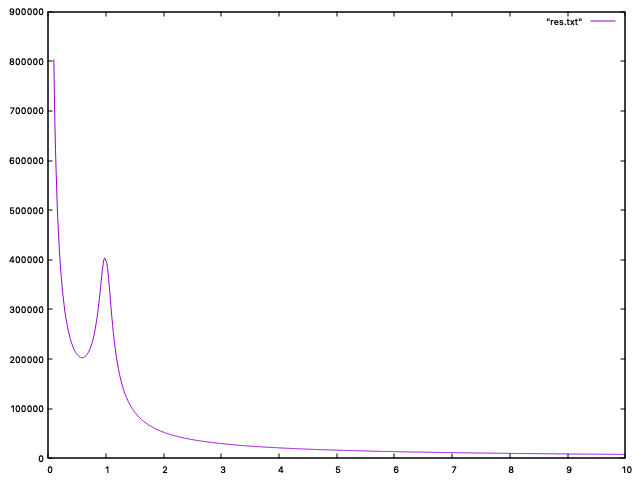
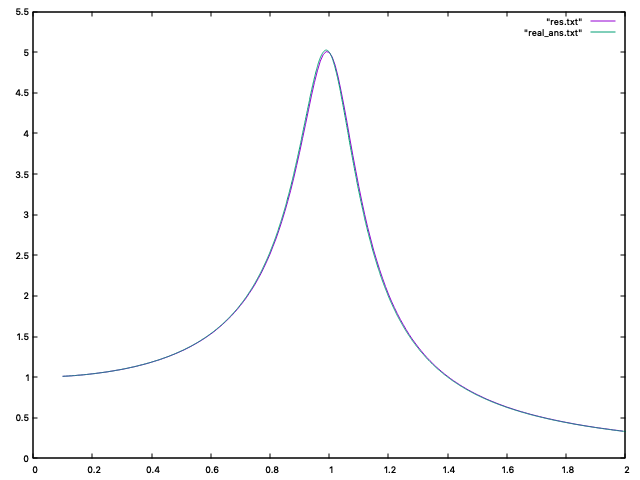
Furie up-e

diff --git a/ordinary_differential_equations/main.cpp b/ordinary_differential_equations/main.cpp
@@ -2,7 +2,18 @@
 #include <cstdlib>
 #include <algorithm>
 #include <cmath>
-
+void real_solv(double gamma, double Omega = -1){
+    FILE *real_sol;
+    real_sol = fopen("real_ans.txt", "w");
+    double sigma = 2.02*gamma/Omega;
+    double ans;
+    for(double omg = 0.1; omg < 2; omg += 0.001){
+        ans = 1 / sqrt((1 - omg*omg)*(1 - omg*omg) + 4 * gamma * omg * omg * gamma);
+        fprintf(real_sol, "%lf %lf\n", omg, ans);
+    }
+    fclose(real_sol);
+    return;
+}
 int main(int argc, char* argv[]) {
     double Gamma, Omega, A, h, t_min, t_max, x = 0.0, v = 0.0;
     if (argc < 4) {
@@ -13,19 +24,19 @@ int main(int argc, char* argv[]) {
     Omega = strtod(argv[2], nullptr);
     A = strtod(argv[3], nullptr);
 
-    std::cout << Gamma << " " << Omega << " " << A << std::endl;
 
     h = std::min(2.0 * M_PI / 100, 2.0 * M_PI / (Omega * 100));
     t_min = 30 / Gamma;
-    t_max = t_min + 100.0 * M_PI / Omega;
+    t_max = t_min + 30 * M_PI / Omega;
 
     double t = 0.0;
     while(t < t_max){
         x += v * h * 0.5;
-        v += h * (-x - 2.0 * Gamma * v + A * sin(Omega * t));
+        v += h * (-x - 2.0 * Gamma * v + A * cos(Omega * t));
         x += h * v * 0.5;
-        printf("%lf %lf %lf\n", t, x, v);
+        printf("%lf %lf %lf\n", t,x,v);
         t+=h;
     }
+    real_solv(Gamma);
     return 0;
 }

diff --git a/ordinary_differential_equations/furie.cpp b/ordinary_differential_equations/furie.cpp
@@ -19,13 +19,14 @@ int main(int argc, char *argv[]) {
     Omega = strtod(argv[1], nullptr);
     h = std::min(2.0 * M_PI / 100, 2.0 * M_PI / (Omega * 100));
     t_min = 30 / Gamma;
-    t_max = t_min + 100.0 * M_PI / Omega;
+    t_max = t_min + 30.0 * M_PI / Omega;
+    long long n = (t_max - t_min) / h;
     while (scanf("%lf %lf %lf", &t, &x, &v) > 0) {
         if(t < t_min){
             continue;
         }
-        riemann_re += (cos(Omega * (t + h / 2)) * x) / h;
-        riemann_im += (sin(Omega * (t + h / 2)) * x) / h;
+        riemann_re += (cos(Omega * (t + h / 2)) * x) / (n);
+        riemann_im += (sin(Omega * (t + h / 2)) * x) / (n);
     }
     printf("%lf \n", sqrt(pow(2 * riemann_re, 2) + pow(2 * riemann_im , 2)));
     return 0;
